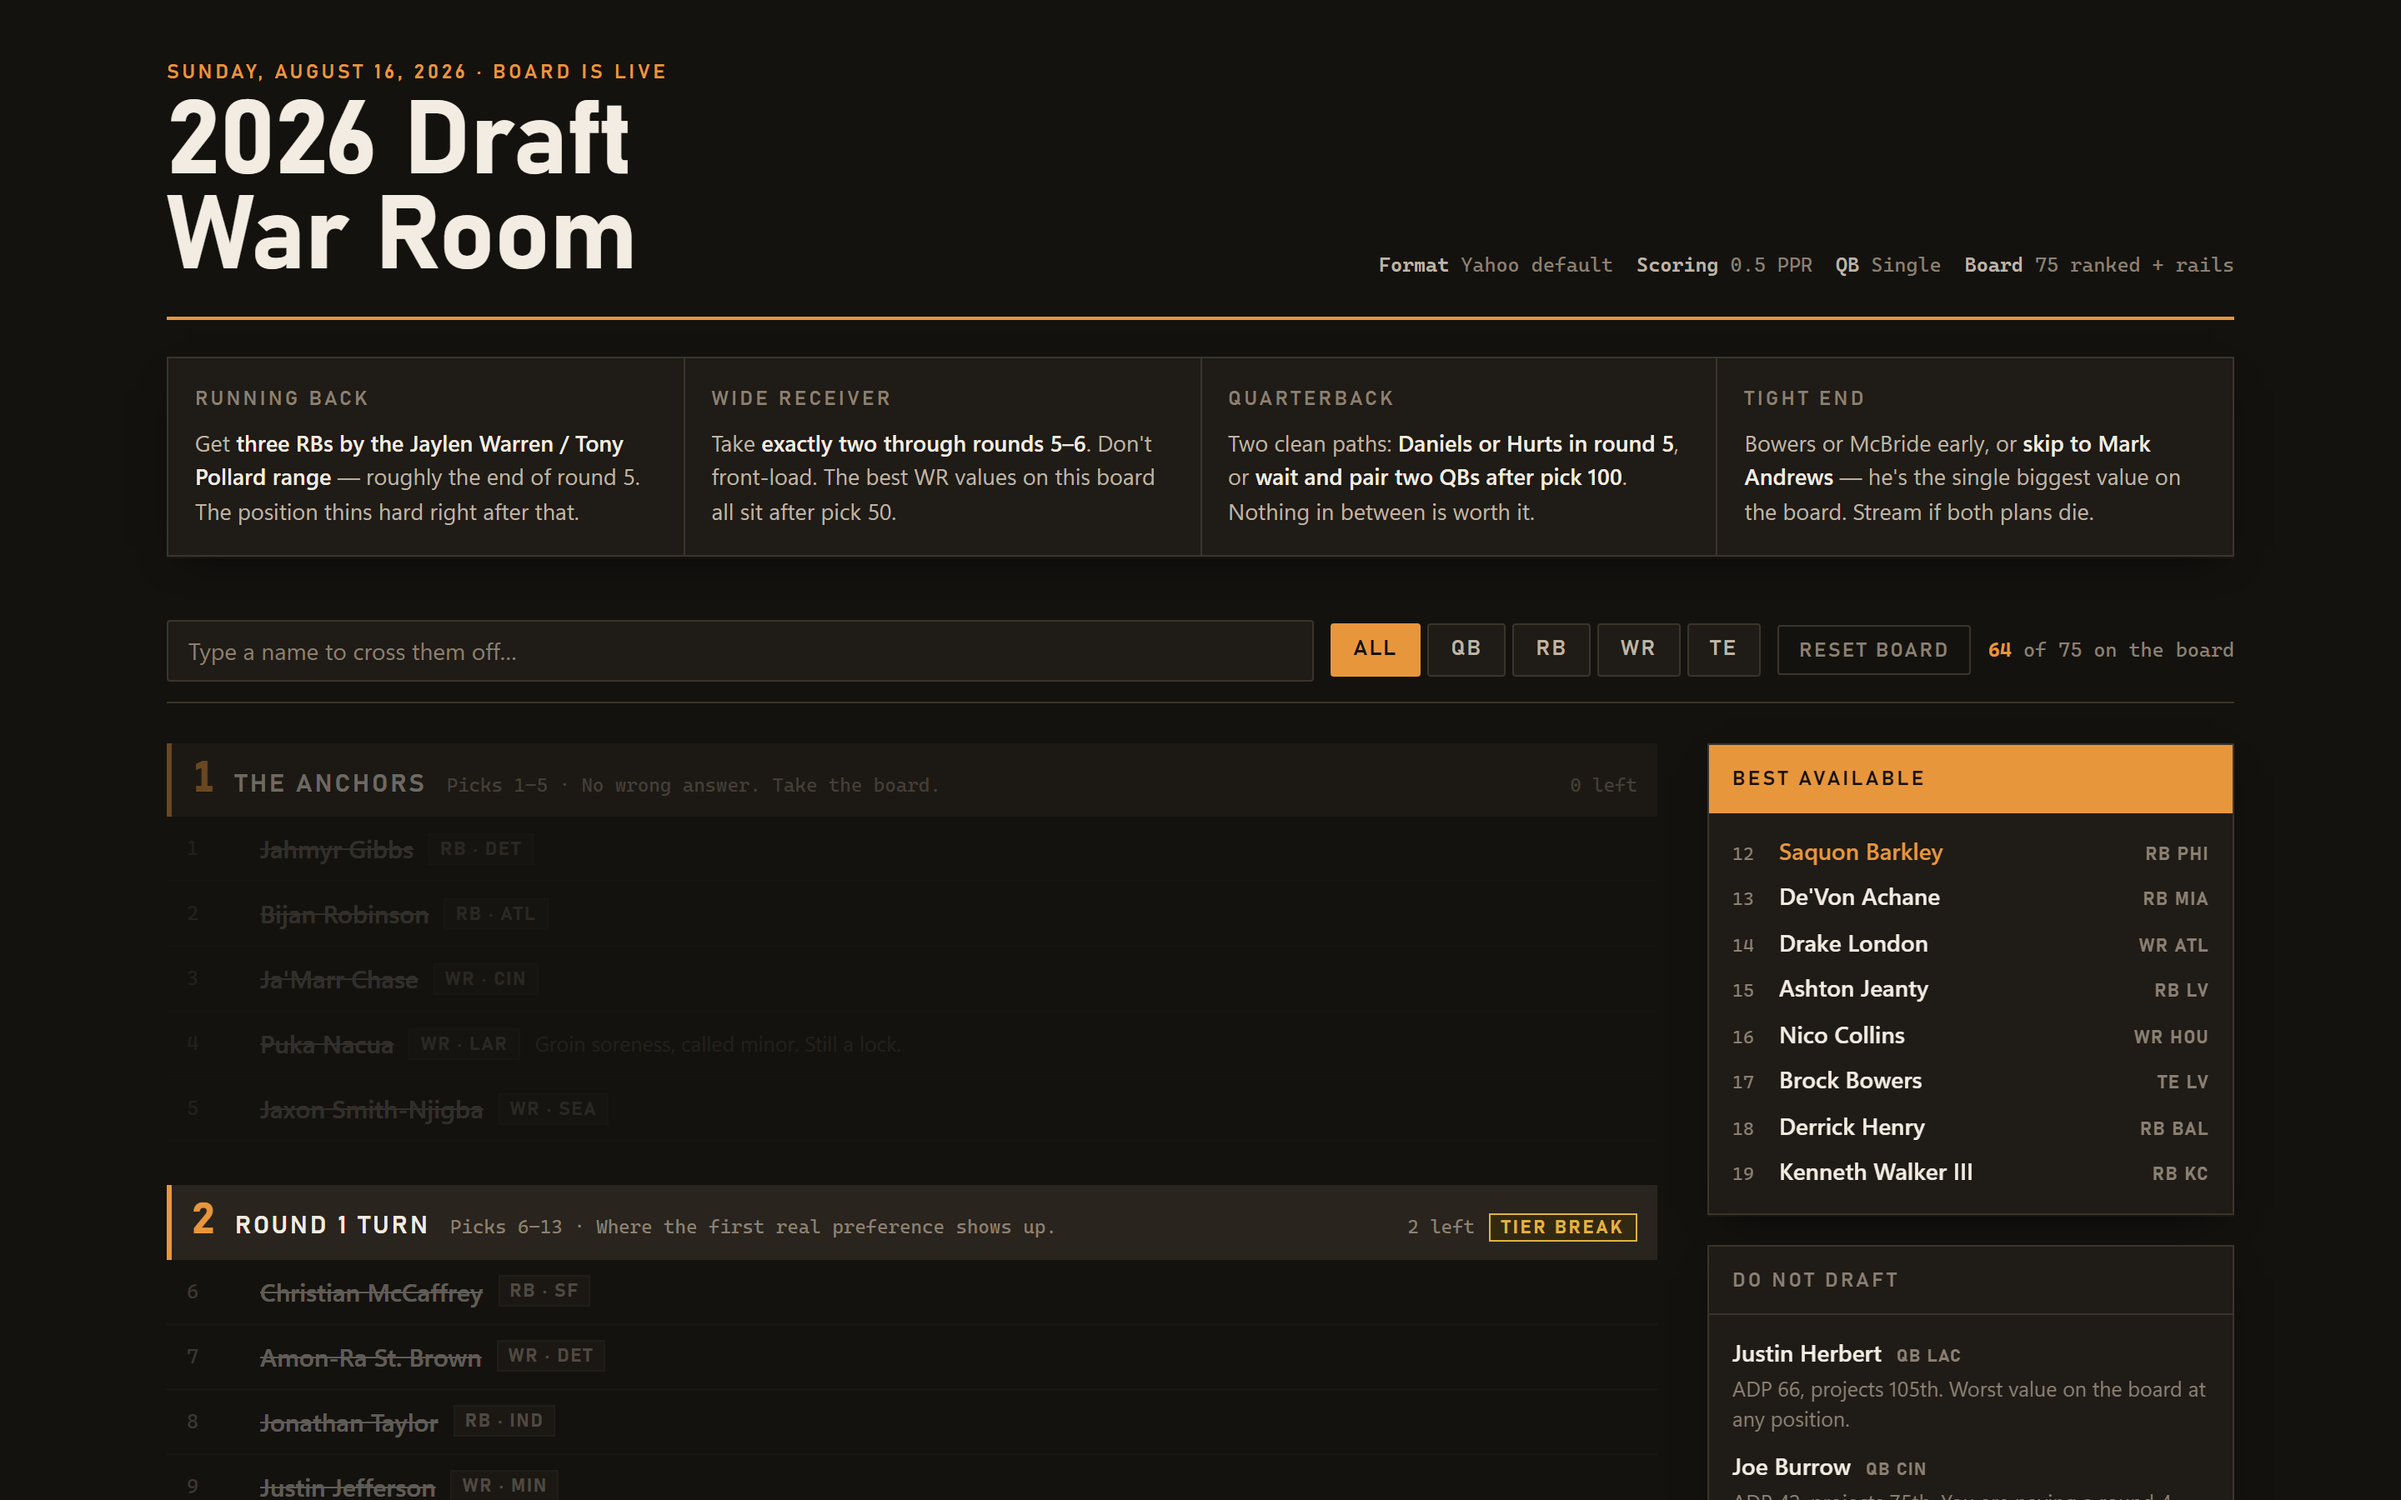
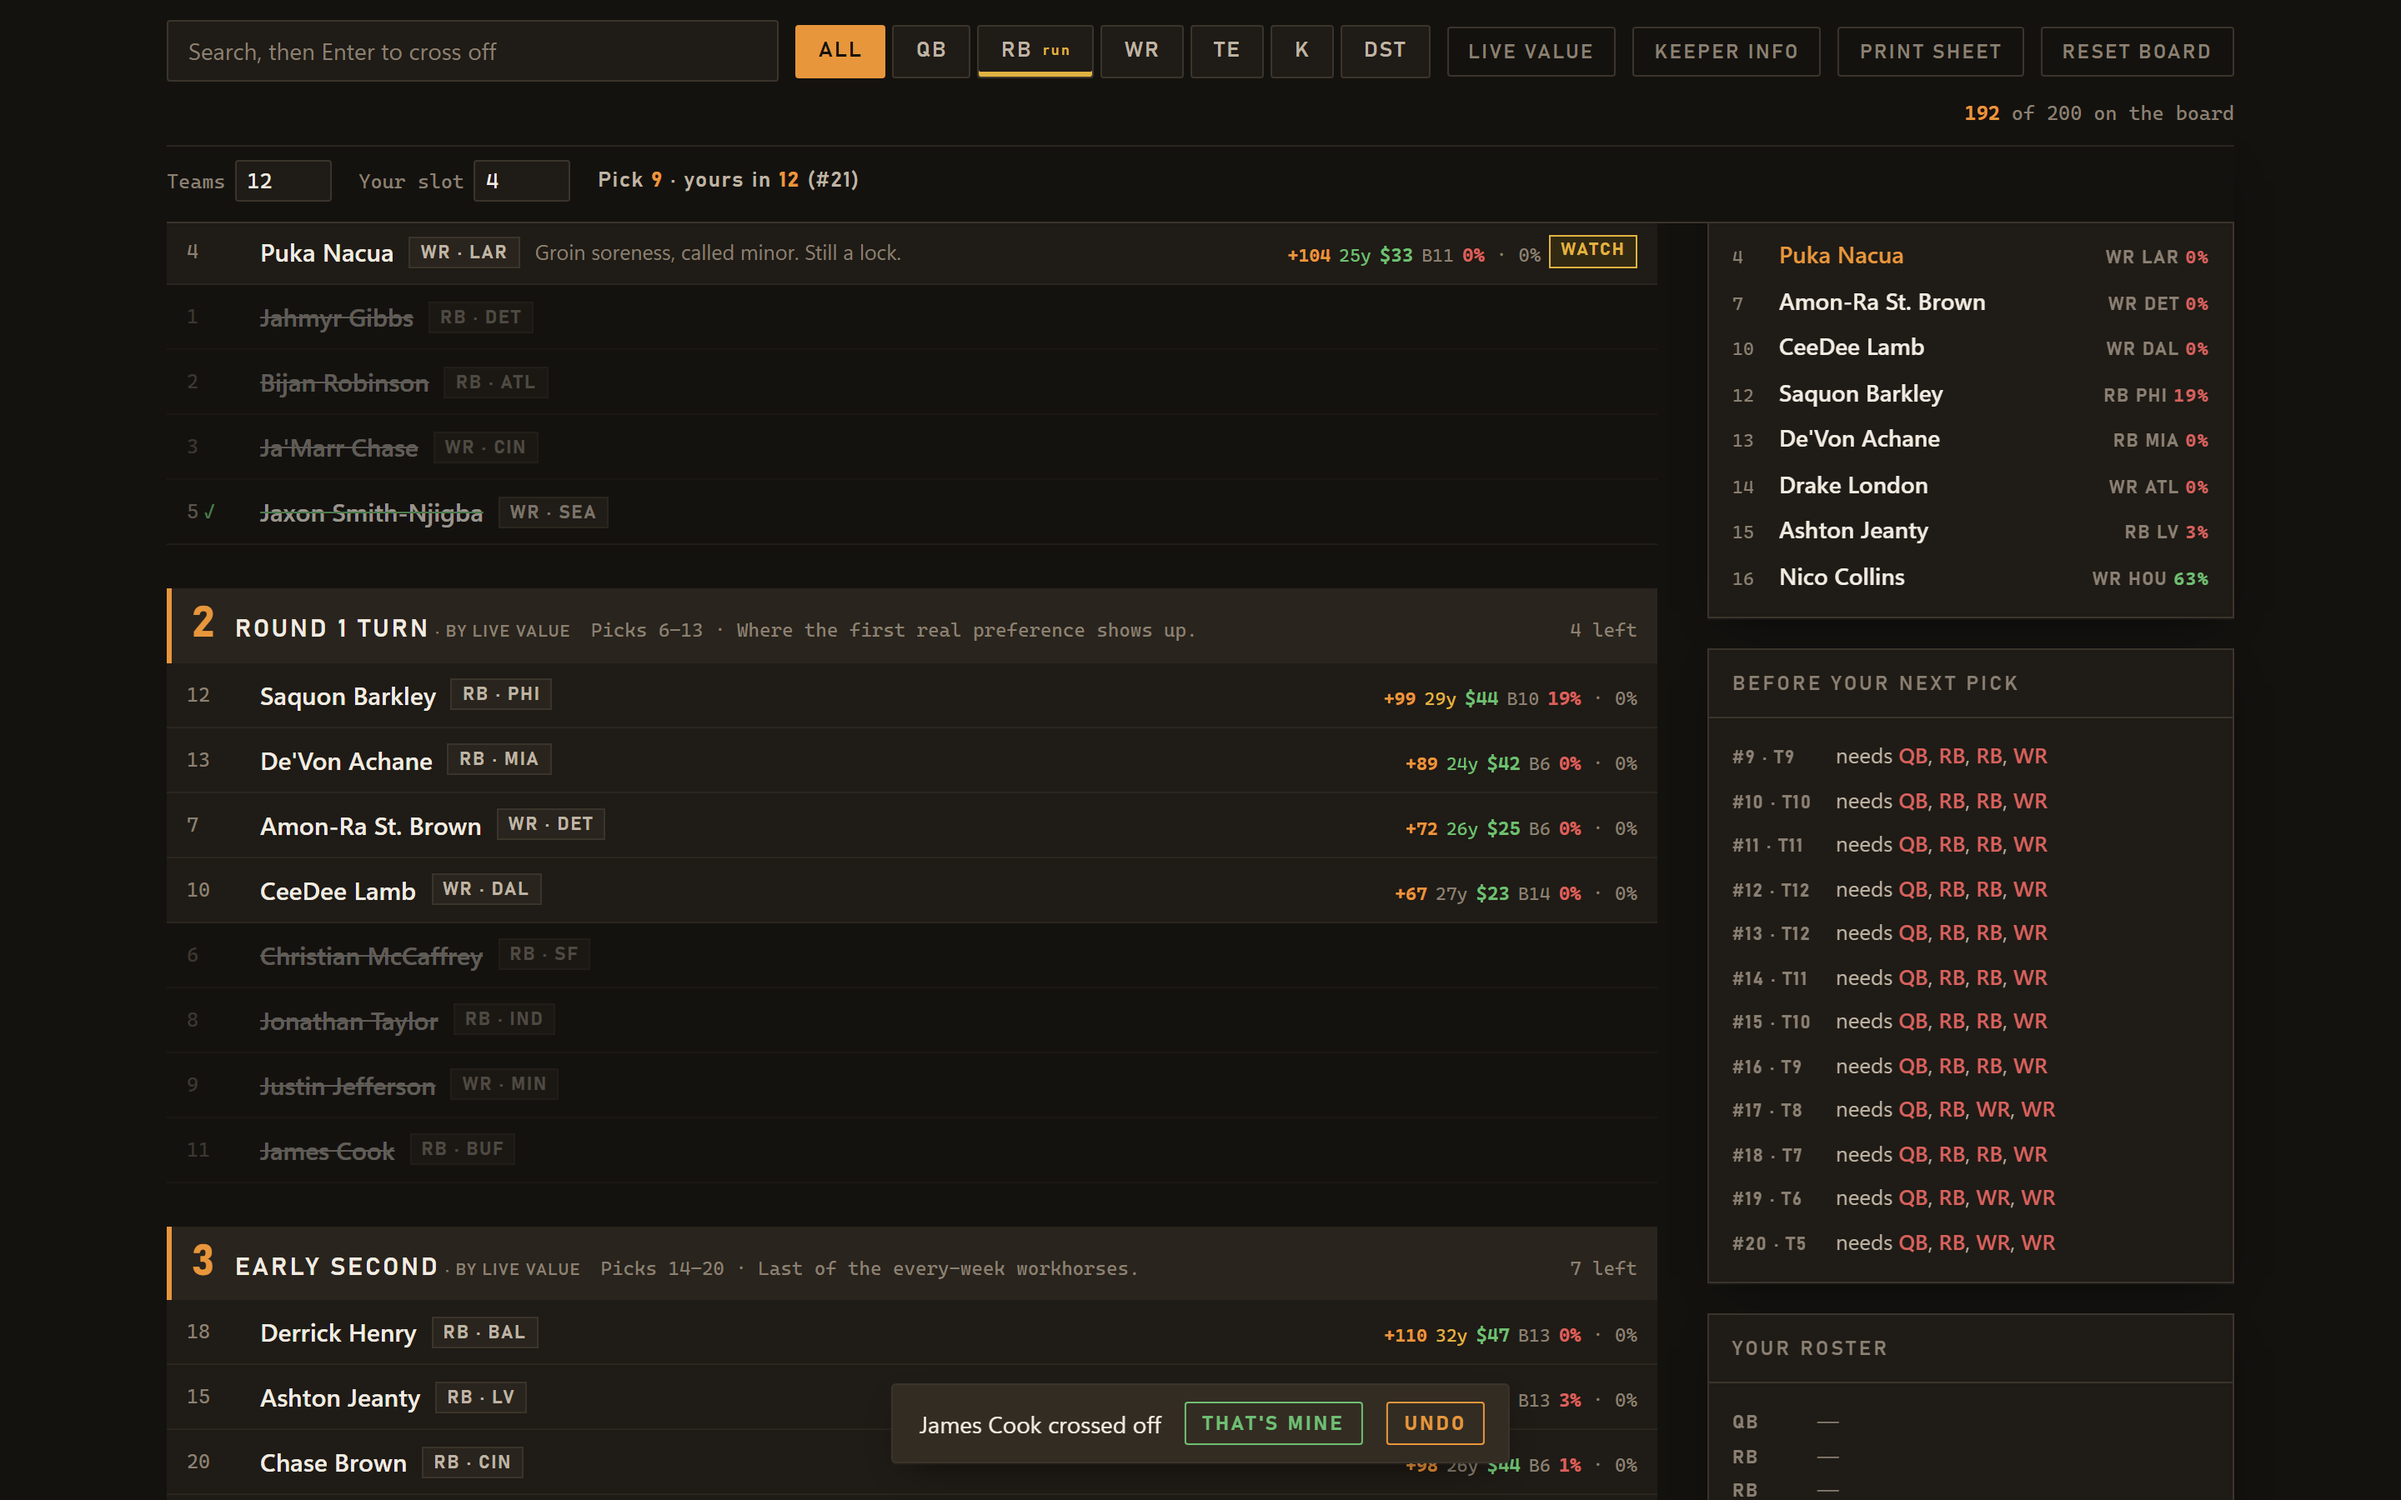
chore(release): v0.1.0
Drains the roadmap. Since v0.0.1: four P0 fixes (tier-break miscount, XSS +
CSP, storage scoping, live regions), snake-draft odds, a local server with SSE
and Sleeper draft sync, live ADP/projections/auction values/byes/injuries from
public APIs, roster and opponent tracking, live value over replacement, keeper
context, format variants, a 200-player board, CSV export, dataset validation
and a print sheet. 191 tests, ruff >= 0.16 clean.

Screenshots re-captured for the new UI.

diff --git a/src/fantasyleague/__init__.py b/src/fantasyleague/__init__.py
@@ -1,5 +1,5 @@
 """FantasyLeagueFootball — a draft-day board for Yahoo half-PPR fantasy football."""
 
-__version__ = "0.0.1"
+__version__ = "0.1.0"
 
 __all__ = ["__version__"]

diff --git a/README.md b/README.md
@@ -1,10 +1,10 @@
 # FantasyLeagueFootball
 
-[![Version](https://img.shields.io/badge/version-0.0.1-E8963C.svg)](CHANGELOG.md)
+[![Version](https://img.shields.io/badge/version-0.1.0-E8963C.svg)](CHANGELOG.md)
 [![License](https://img.shields.io/badge/license-MIT-blue.svg)](LICENSE)
 [![Python](https://img.shields.io/badge/python-3.11%2B-3776AB.svg)](pyproject.toml)
 [![Platform](https://img.shields.io/badge/platform-Windows%20%7C%20macOS%20%7C%20Linux-lightgrey.svg)](#install)
-[![Tests](https://img.shields.io/badge/tests-42%20passing-6FBF73.svg)](tests/)
+[![Tests](https://img.shields.io/badge/tests-191%20passing-6FBF73.svg)](tests/)
 [![Dependencies](https://img.shields.io/badge/runtime%20deps-0-6FBF73.svg)](pyproject.toml)
 
 A draft-day board for **Yahoo half-PPR fantasy football**. Renders one self-contained HTML page you keep open on a second screen while you draft — click players off as they go, watch tiers drain, and get warned the moment a tier is about to break.
@@ -17,7 +17,7 @@ Ships with a ranked 2026 board — 200 players in 12 tiers — with value/reach 
 
 Rankings sites give you a list. A list doesn't answer the only question that matters at the turn: *take him now, or gamble he lasts eleven picks?* Players inside a tier are close enough to be interchangeable; the value cliff is **between** tiers. So this board tracks how many players each tier has left and flags **Tier break** when one is down to its last two — that's your cue to reach instead of waiting for the wheel.
 
-![Mid-draft: eleven players crossed off, tier 2 showing a tier-break warning](docs/screenshot-mid-draft.png)
+![Mid-draft: live value, keeper ages, auction prices, and the managers picking before you](docs/screenshot-mid-draft.png)
 
 ## Features
 
@@ -206,7 +206,7 @@ Dark is the default. The page defines a complete light palette too and picks one
 ```bash
 pip install -e ".[dev]"
 python -m playwright install chromium   # only needed for the browser tests
-pytest                                  # 156 tests
+pytest                                  # 191 tests
 ruff check .
 python -m build                         # wheel + sdist into dist/
 ```

diff --git a/CHANGELOG.md b/CHANGELOG.md
@@ -4,7 +4,7 @@ All notable changes to this project are documented here.
 Format follows [Keep a Changelog](https://keepachangelog.com/en/1.1.0/);
 versioning follows [Semantic Versioning](https://semver.org/spec/v2.0.0.html).
 
-## [Unreleased]
+## [0.1.0] — 2026-08-16
 
 ### Fixed
 - A dataset saved by Notepad or PowerShell's `Out-File` (both write a UTF-8 BOM) failed to
@@ -179,4 +179,5 @@ Initial release.
 - README screenshots (dark, light, mid-draft) captured from the rendered board.
 - Published to GitHub: https://github.com/SysAdminDoc/FantasyLeagueFootball
 
+[0.1.0]: https://github.com/SysAdminDoc/FantasyLeagueFootball/releases/tag/v0.1.0
 [0.0.1]: https://github.com/SysAdminDoc/FantasyLeagueFootball/releases/tag/v0.0.1

diff --git a/ROADMAP.md b/ROADMAP.md
@@ -1,14 +1,6 @@
 # Roadmap
 
-Single task tracker for FantasyLeagueFootball. Drain top to bottom. Shipped work lives in CHANGELOG.md.
+Single task tracker for FantasyLeagueFootball. Drain top to bottom.
+Shipped work lives in CHANGELOG.md; items needing external input live in Roadmap_Blocked.md.
 
-## Next
-
-
-## Later
-
-
-## Research-Driven Additions
-
-Added 2026-08-16 from RESEARCH.md. Ordered P0 → P3; within a tier: root-cause fixes, then trust/reliability, then quick wins, then larger bets.
-
+_No open items._
